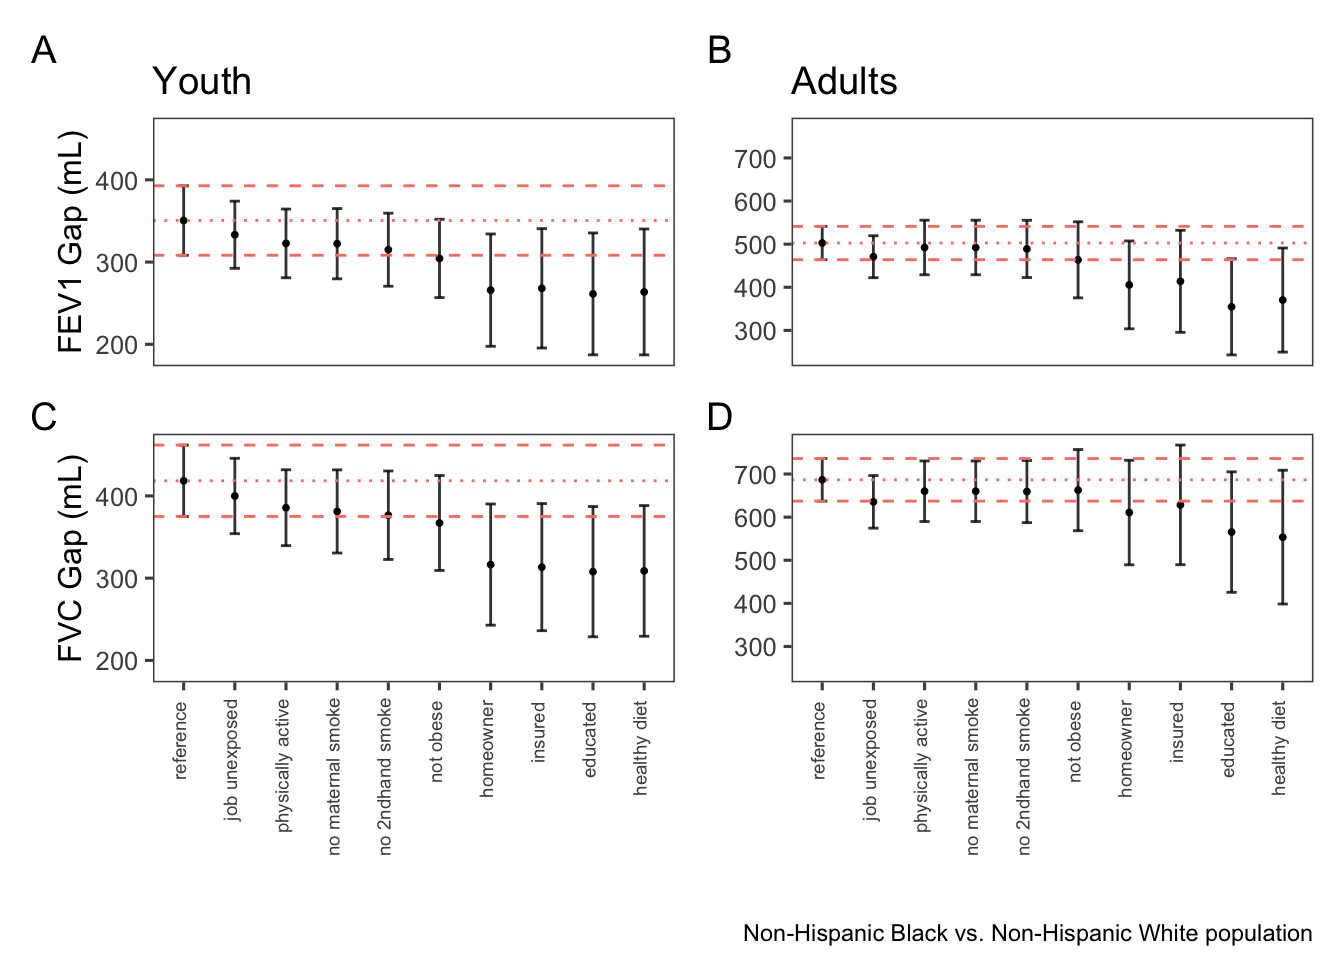
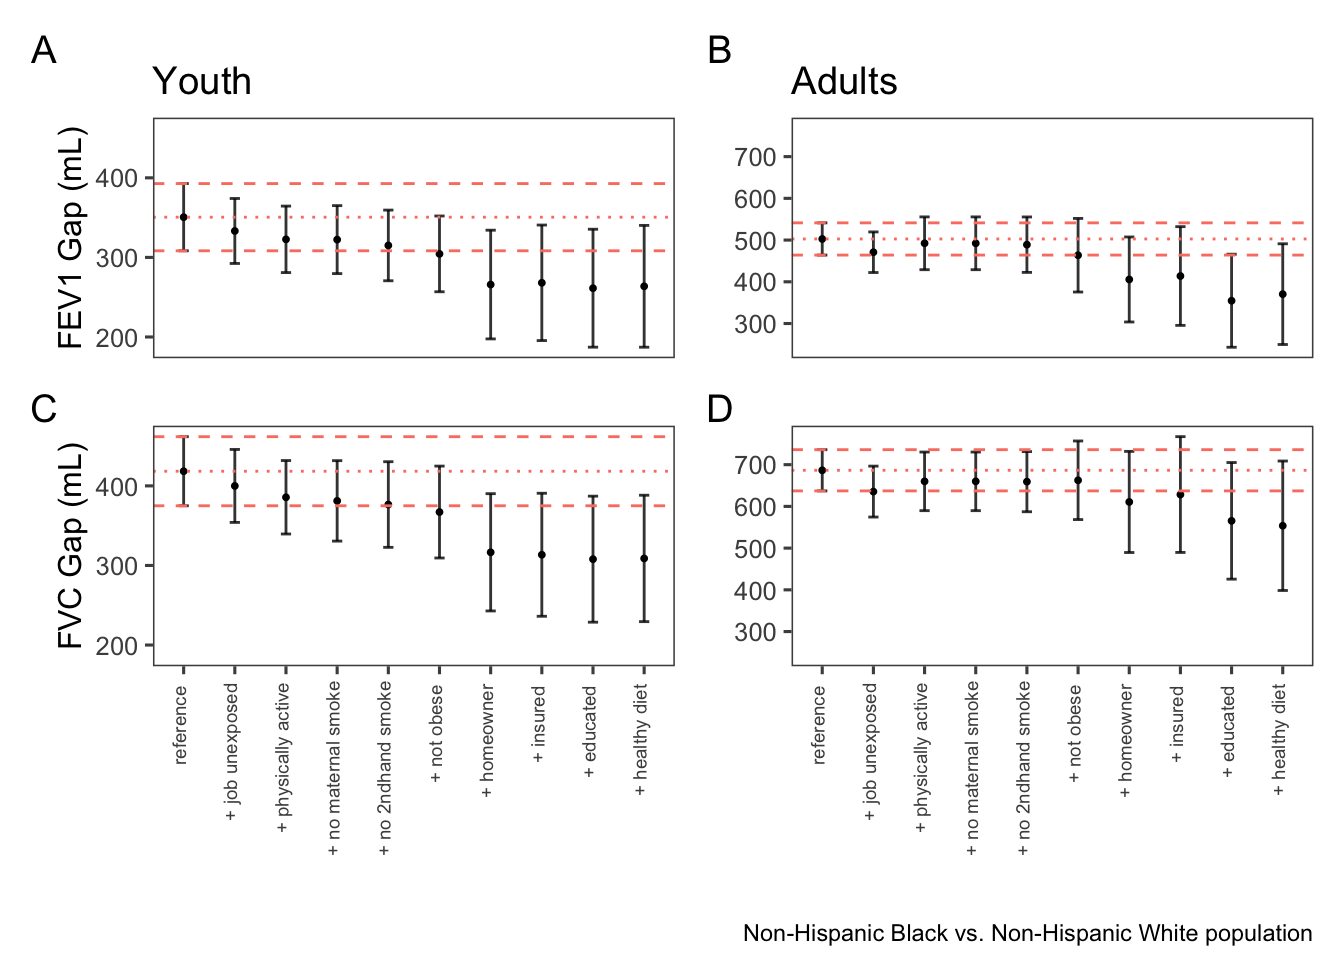
+ sign added to figures

diff --git a/who-is-healthy-anyways_files/libs/quarto-html/quarto-syntax-highlighting-549806ee2085284f45b00abea8c6df48.css b/who-is-healthy-anyways_files/libs/quarto-html/quarto-syntax-highlighting-549806ee2085284f45b00abea8c6df48.css
@@ -1,0 +1,205 @@
+/* quarto syntax highlight colors */
+:root {
+  --quarto-hl-ot-color: #003B4F;
+  --quarto-hl-at-color: #657422;
+  --quarto-hl-ss-color: #20794D;
+  --quarto-hl-an-color: #5E5E5E;
+  --quarto-hl-fu-color: #4758AB;
+  --quarto-hl-st-color: #20794D;
+  --quarto-hl-cf-color: #003B4F;
+  --quarto-hl-op-color: #5E5E5E;
+  --quarto-hl-er-color: #AD0000;
+  --quarto-hl-bn-color: #AD0000;
+  --quarto-hl-al-color: #AD0000;
+  --quarto-hl-va-color: #111111;
+  --quarto-hl-bu-color: inherit;
+  --quarto-hl-ex-color: inherit;
+  --quarto-hl-pp-color: #AD0000;
+  --quarto-hl-in-color: #5E5E5E;
+  --quarto-hl-vs-color: #20794D;
+  --quarto-hl-wa-color: #5E5E5E;
+  --quarto-hl-do-color: #5E5E5E;
+  --quarto-hl-im-color: #00769E;
+  --quarto-hl-ch-color: #20794D;
+  --quarto-hl-dt-color: #AD0000;
+  --quarto-hl-fl-color: #AD0000;
+  --quarto-hl-co-color: #5E5E5E;
+  --quarto-hl-cv-color: #5E5E5E;
+  --quarto-hl-cn-color: #8f5902;
+  --quarto-hl-sc-color: #5E5E5E;
+  --quarto-hl-dv-color: #AD0000;
+  --quarto-hl-kw-color: #003B4F;
+}
+
+/* other quarto variables */
+:root {
+  --quarto-font-monospace: SFMono-Regular, Menlo, Monaco, Consolas, "Liberation Mono", "Courier New", monospace;
+}
+
+pre > code.sourceCode > span {
+  color: #003B4F;
+}
+
+code span {
+  color: #003B4F;
+}
+
+code.sourceCode > span {
+  color: #003B4F;
+}
+
+div.sourceCode,
+div.sourceCode pre.sourceCode {
+  color: #003B4F;
+}
+
+code span.ot {
+  color: #003B4F;
+  font-style: inherit;
+}
+
+code span.at {
+  color: #657422;
+  font-style: inherit;
+}
+
+code span.ss {
+  color: #20794D;
+  font-style: inherit;
+}
+
+code span.an {
+  color: #5E5E5E;
+  font-style: inherit;
+}
+
+code span.fu {
+  color: #4758AB;
+  font-style: inherit;
+}
+
+code span.st {
+  color: #20794D;
+  font-style: inherit;
+}
+
+code span.cf {
+  color: #003B4F;
+  font-weight: bold;
+  font-style: inherit;
+}
+
+code span.op {
+  color: #5E5E5E;
+  font-style: inherit;
+}
+
+code span.er {
+  color: #AD0000;
+  font-style: inherit;
+}
+
+code span.bn {
+  color: #AD0000;
+  font-style: inherit;
+}
+
+code span.al {
+  color: #AD0000;
+  font-style: inherit;
+}
+
+code span.va {
+  color: #111111;
+  font-style: inherit;
+}
+
+code span.bu {
+  font-style: inherit;
+}
+
+code span.ex {
+  font-style: inherit;
+}
+
+code span.pp {
+  color: #AD0000;
+  font-style: inherit;
+}
+
+code span.in {
+  color: #5E5E5E;
+  font-style: inherit;
+}
+
+code span.vs {
+  color: #20794D;
+  font-style: inherit;
+}
+
+code span.wa {
+  color: #5E5E5E;
+  font-style: italic;
+}
+
+code span.do {
+  color: #5E5E5E;
+  font-style: italic;
+}
+
+code span.im {
+  color: #00769E;
+  font-style: inherit;
+}
+
+code span.ch {
+  color: #20794D;
+  font-style: inherit;
+}
+
+code span.dt {
+  color: #AD0000;
+  font-style: inherit;
+}
+
+code span.fl {
+  color: #AD0000;
+  font-style: inherit;
+}
+
+code span.co {
+  color: #5E5E5E;
+  font-style: inherit;
+}
+
+code span.cv {
+  color: #5E5E5E;
+  font-style: italic;
+}
+
+code span.cn {
+  color: #8f5902;
+  font-style: inherit;
+}
+
+code span.sc {
+  color: #5E5E5E;
+  font-style: inherit;
+}
+
+code span.dv {
+  color: #AD0000;
+  font-style: inherit;
+}
+
+code span.kw {
+  color: #003B4F;
+  font-weight: bold;
+  font-style: inherit;
+}
+
+.prevent-inlining {
+  content: "</";
+}
+
+/*# sourceMappingURL=ae99138f4fbc2fb4c9f5e5cd69c22459.css.map */

diff --git a/who-is-healthy-anyways.html b/who-is-healthy-anyways.html
@@ -2,7 +2,7 @@
 <html xmlns="http://www.w3.org/1999/xhtml" lang="en" xml:lang="en"><head>
 
 <meta charset="utf-8">
-<meta name="generator" content="quarto-1.6.39">
+<meta name="generator" content="quarto-1.6.40">
 
 <meta name="viewport" content="width=device-width, initial-scale=1.0, user-scalable=yes">
 
@@ -12,7 +12,7 @@
 <meta name="author" content="Don D. Sin">
 <meta name="author" content="Peter Loewen">
 <meta name="author" content="Mohsen Sadatsafavi">
-<meta name="dcterms.date" content="2025-01-21">
+<meta name="dcterms.date" content="2025-01-24">
 
 <title>Social determinants and racial disparities in lung function: Findings from NHANES 2007-2012</title>
 <style>
@@ -55,7 +55,7 @@ div.csl-indent {
 <script src="who-is-healthy-anyways_files/libs/quarto-html/tippy.umd.min.js"></script>
 <script src="who-is-healthy-anyways_files/libs/quarto-html/anchor.min.js"></script>
 <link href="who-is-healthy-anyways_files/libs/quarto-html/tippy.css" rel="stylesheet">
-<link href="who-is-healthy-anyways_files/libs/quarto-html/quarto-syntax-highlighting-e26003cea8cd680ca0c55a263523d882.css" rel="stylesheet" id="quarto-text-highlighting-styles">
+<link href="who-is-healthy-anyways_files/libs/quarto-html/quarto-syntax-highlighting-549806ee2085284f45b00abea8c6df48.css" rel="stylesheet" id="quarto-text-highlighting-styles">
 <script src="who-is-healthy-anyways_files/libs/bootstrap/bootstrap.min.js"></script>
 <link href="who-is-healthy-anyways_files/libs/bootstrap/bootstrap-icons.css" rel="stylesheet">
 <link href="who-is-healthy-anyways_files/libs/bootstrap/bootstrap-973236bd072d72a04ee9cd82dcc9cb29.min.css" rel="stylesheet" append-hash="true" id="quarto-bootstrap" data-mode="light">
@@ -96,7 +96,6 @@ div.csl-indent {
   <li><a href="#income-to-poverty-ratio" id="toc-income-to-poverty-ratio" class="nav-link" data-scroll-target="#income-to-poverty-ratio">Income to Poverty Ratio</a></li>
   <li><a href="#leave-one-out-analysis" id="toc-leave-one-out-analysis" class="nav-link" data-scroll-target="#leave-one-out-analysis">Leave-one-out Analysis</a></li>
   <li><a href="#leave-one-in-analysis" id="toc-leave-one-in-analysis" class="nav-link" data-scroll-target="#leave-one-in-analysis">Leave-one-in Analysis</a></li>
-  <li><a href="#criteria-combination" id="toc-criteria-combination" class="nav-link" data-scroll-target="#criteria-combination">Criteria Combination</a></li>
   </ul></li>
   </ul>
 <div class="quarto-alternate-formats"><h2>Other Formats</h2><ul><li><a href="who-is-healthy-anyways.docx"><i class="bi bi-file-word"></i>MS Word</a></li><li><a href="who-is-healthy-anyways.pdf"><i class="bi bi-file-pdf"></i>PDF</a></li></ul></div></nav>
@@ -181,7 +180,7 @@ div.csl-indent {
     <div>
     <div class="quarto-title-meta-heading">Published</div>
     <div class="quarto-title-meta-contents">
-      <p class="date">January 21, 2025</p>
+      <p class="date">January 24, 2025</p>
     </div>
   </div>
   
@@ -3460,9 +3459,7 @@ Figure S19: Leaving out diet
 </div>
 </div>
 </div>
-</section>
-<section id="criteria-combination" class="level3">
-<h3 class="anchored" data-anchor-id="criteria-combination">Criteria Combination</h3>
+<!-- ### Criteria Combination-->
 </section>
 </section>
 
